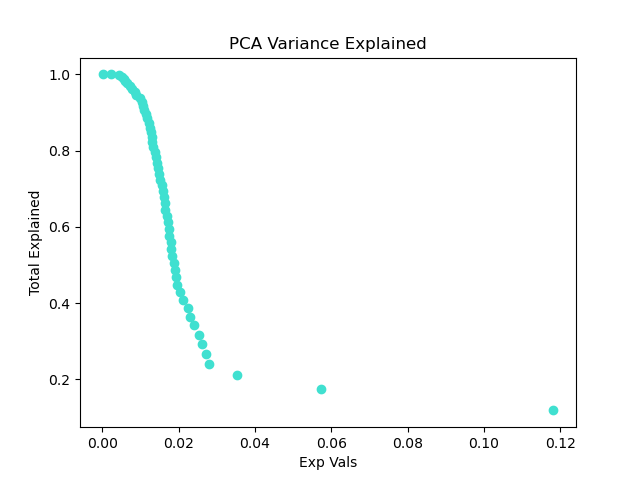
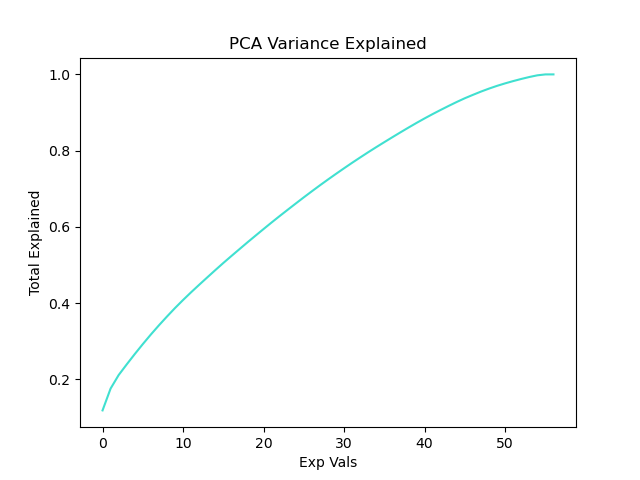
Task 03 done

diff --git a/assignments_03/project_03.py b/assignments_03/project_03.py
@@ -8,9 +8,16 @@ from io import BytesIO
 from sklearn.linear_model import LogisticRegression
 from sklearn.preprocessing import StandardScaler
 from sklearn.decomposition import PCA
+
+from sklearn.neighbors import KNeighborsClassifier
+from sklearn.tree import DecisionTreeClassifier
+from sklearn.ensemble import RandomForestClassifier
+from sklearn.linear_model import LogisticRegression
+
 from sklearn.model_selection import train_test_split, cross_val_score
 from sklearn.metrics import (
     confusion_matrix,
+    ConfusionMatrixDisplay,
     accuracy_score,
     precision_score,
     recall_score,
@@ -154,7 +161,7 @@ for i, value in enumerate(total_explained):
         break
 
 
-plt.scatter(perc_exp_vals,total_explained,color="turquoise")
+plt.plot(total_explained,color="turquoise")
 plt.title("PCA Variance Explained")
 
 plt.xlabel("Exp Vals")
@@ -166,5 +173,124 @@ print("Explained variance (%):", ", ".join(f"{v:.2f}" for v in perc_exp_vals))
 print(f"Total (%): {n}")
 
 #Transform both train and test data and slice the first n components
-X_train_pca = pca.transform(X_train_scaled[:,:n])
-X_test_pca = pca.transform(X_test_scaled[:,:n])
+X_train_pca = pca.transform(X_train_scaled)[:, :n]
+X_test_pca  = pca.transform(X_test_scaled)[:, :n]
+
+#Task 03
+
+#KNN on unscaled data
+knn = KNeighborsClassifier(n_neighbors=5)
+knn.fit(X_train,y_train)
+preds = knn.predict(X_test)
+score = accuracy_score(y_test,preds)
+class_report = classification_report(y_test,preds)
+
+print(f"\nKNN 01:\n")
+print(f"Accuracy: {score}")
+print(f"Report: {class_report}")
+
+#KNN on scaled data
+knn2 = KNeighborsClassifier(n_neighbors=5)
+knn2.fit(X_train_scaled,y_train)
+preds2 = knn2.predict(X_test_scaled)
+score2 = accuracy_score(y_test,preds)
+class_report2 = classification_report(y_test,preds2)
+
+print(f"\nKNN 02:\n")
+print(f"Accuracy: {score2}")
+print(f"Report: {class_report2}")
+
+#Decision Tree 01
+dtc1 = DecisionTreeClassifier(max_depth=3,random_state=42)
+dtc1.fit(X_train,y_train)
+train_preds_dtc1 = dtc1.predict(X_train)
+test_preds_dtc1 = dtc1.predict(X_test)
+
+train_accuracy_dtc1 = accuracy_score(y_train, train_preds_dtc1)
+test_accuracy_dtc1 = accuracy_score(y_test,test_preds_dtc1)
+
+print(f"\nDecision Tree 01:\n")
+print(f"Train Accuracy: {train_accuracy_dtc1}")
+print(f"Test Accuracy: {test_accuracy_dtc1}")
+
+#Decision Tree 02
+dtc2 = DecisionTreeClassifier(max_depth=5,random_state=42)
+dtc2.fit(X_train,y_train)
+train_preds_dtc2 = dtc2.predict(X_train)
+test_preds_dtc2 = dtc2.predict(X_test)
+
+train_accuracy_dtc2 = accuracy_score(y_train, train_preds_dtc2)
+test_accuracy_dtc2 = accuracy_score(y_test,test_preds_dtc2)
+
+print(f"\nDecision Tree 02:\n")
+print(f"Train Accuracy: {train_accuracy_dtc2}")
+print(f"Test Accuracy: {test_accuracy_dtc2}")
+
+#Decision Tree 03
+dtc3 = DecisionTreeClassifier(max_depth=10,random_state=42)
+dtc3.fit(X_train,y_train)
+train_preds_dtc3 = dtc3.predict(X_train)
+test_preds_dtc3 = dtc3.predict(X_test)
+
+train_accuracy_dtc3 = accuracy_score(y_train, train_preds_dtc3)
+test_accuracy_dtc3 = accuracy_score(y_test,test_preds_dtc3)
+
+print(f"\nDecision Tree 03:\n")
+print(f"Train Accuracy: {train_accuracy_dtc3}")
+print(f"Test Accuracy: {test_accuracy_dtc3}")
+
+#Decision Tree 04
+dtc4 = DecisionTreeClassifier(max_depth=None,random_state=42)
+dtc4.fit(X_train,y_train)
+train_preds_dtc4 = dtc4.predict(X_train)
+test_preds_dtc4 = dtc4.predict(X_test)
+
+train_accuracy_dtc4 = accuracy_score(y_train, train_preds_dtc4)
+test_accuracy_dtc4 = accuracy_score(y_test,test_preds_dtc4)
+class_report_dtc4 = classification_report(y_test, test_preds_dtc4)
+
+print(f"\nDecision Tree 04:\n")
+print(f"Train Accuracy: {train_accuracy_dtc4}")
+print(f"Test Accuracy: {test_accuracy_dtc4}")
+
+#1. The test accuracy doesn't increase as fast as the train accuracy does.
+#2. I would use no depth as it has the best train accuracy
+
+print(f"\nDecision Tree 04 accuracy and report:\n")
+print(f"Test Accuracy: {test_accuracy_dtc4}")
+print(f"Report: {class_report_dtc4}")
+
+#Random Foreset Classifier
+rf = RandomForestClassifier(n_estimators=100,random_state=42)
+rf.fit(X_train,y_train)
+rf_pred = rf.predict(X_test)
+
+rf_score = accuracy_score(y_test, rf_pred)
+rf_class_report = classification_report(y_test, rf_pred)
+
+print(f"\nRandom Forest 01:\n")
+print(f"Accuracy: {rf_score}")
+print(f"Report: {class_report}")
+
+#Logical Regression
+logistic_scaled = LogisticRegression(C=1.0,max_iter=1000,solver="liblinear")
+logistic_pca = LogisticRegression(C=1.0,max_iter=1000,solver="liblinear")
+
+logistic_scaled = logistic_scaled.fit(X_train_scaled,y_train)
+logistic_pca = logistic_pca.fit(X_train_pca,y_train)
+
+logistic_scaled = np.abs(logistic_scaled.coef_).sum()
+logistic_pca = np.abs(logistic_pca.coef_).sum()
+
+print(f"\nLogical Regression 01:\n")
+print(f"Scaled data: {logistic_scaled}")
+print(f"PCA data: {logistic_pca}")
+
+#Going by the accuracies, decision tree 04 is the best model.
+
+cm = confusion_matrix(y_train,train_preds_dtc4)
+display = ConfusionMatrixDisplay(confusion_matrix=cm)
+display.plot()
+plt.title("Decision Tree 04 Confusion Matrix")
+plt.savefig("outputs/decision_tree_04_confusion_matrix.png")
+plt.show()
